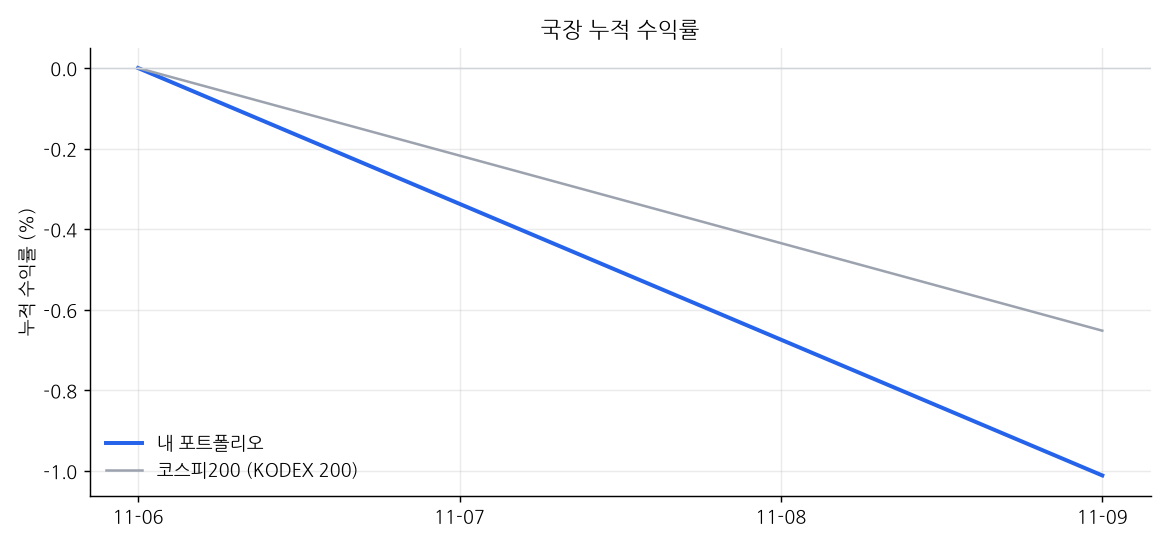
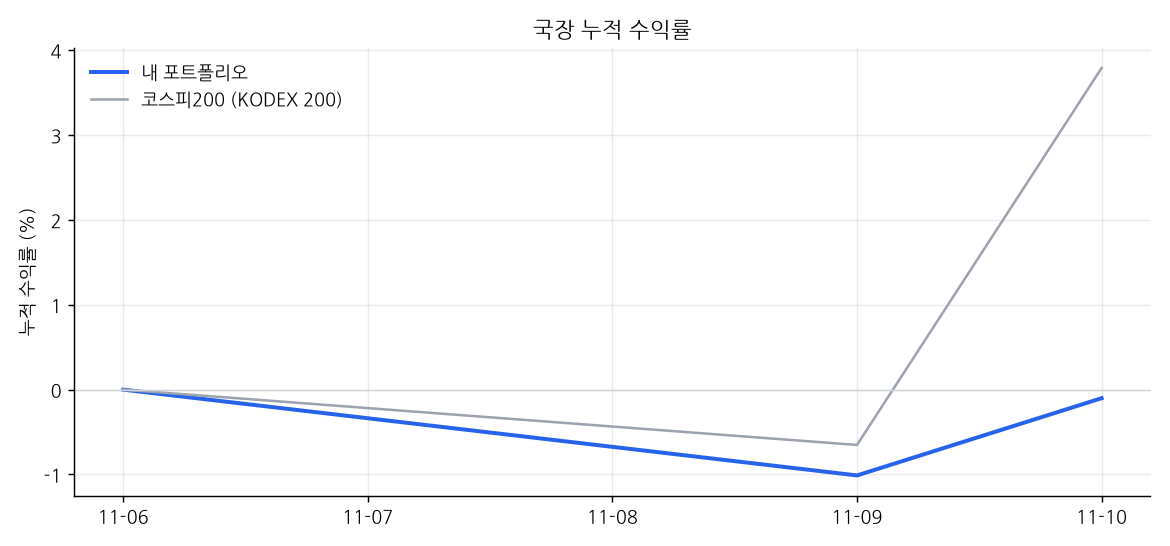
dashboard 2026-11-10 16:00

diff --git a/README.md b/README.md
@@ -1,11 +1,11 @@
 # 📈 내 자동매매 포트폴리오
 
-_마지막 갱신: 2026-11-10 07:30 (KST) · 라즈베리파이 자동 업데이트_
+_마지막 갱신: 2026-11-10 16:00 (KST) · 라즈베리파이 자동 업데이트_
 
 | 트랙 | 시작일 | 누적 수익률 | 비교 지수 | 초과 | 최근 1개월 | 국면 |
 |---|---|---|---|---|---|---|
 | 미장 | 2026-11-05 | **+4.15%** | +2.69% | +1.46% | - | BULL |
-| 국장 | 2026-11-06 | **-1.01%** | -0.65% | -0.36% | - | BEAR |
+| 국장 | 2026-11-06 | **-0.10%** | +3.79% | -3.89% | - | BEAR |
 
 ## 미장
 
@@ -13,16 +13,17 @@ _마지막 갱신: 2026-11-10 07:30 (KST) · 라즈베리파이 자동 업데이
 
 | 종목 | 비중 |
 |---|---|
-| AMD | 11.1% |
-| TSLA | 10.5% |
-| META | 10.1% |
-| AVGO | 10.1% |
-| AAPL | 10.1% |
-| AMZN | 10.0% |
-| LLY | 9.8% |
-| MSFT | 9.7% |
-| GOOGL | 9.7% |
-| NVDA | 9.0% |
+| AMD | 10.8% |
+| TSLA | 10.2% |
+| META | 9.9% |
+| AVGO | 9.9% |
+| AAPL | 9.8% |
+| AMZN | 9.8% |
+| LLY | 9.5% |
+| MSFT | 9.5% |
+| GOOGL | 9.5% |
+| NVDA | 8.8% |
+| 현금 | 2.3% |
 
 ![미장 비중](charts/us_weights.png)
 
@@ -32,16 +33,16 @@ _마지막 갱신: 2026-11-10 07:30 (KST) · 라즈베리파이 자동 업데이
 
 | 종목 | 비중 |
 |---|---|
-| KODEX 단기채권 | 50.2% |
-| 현금 | 14.6% |
+| KODEX 단기채권 | 49.7% |
+| 현금 | 14.4% |
+| 하나금융지주 | 5.0% |
 | 신한지주 | 5.0% |
-| 하나금융지주 | 4.9% |
-| 현대모비스 | 4.7% |
-| 셀트리온 | 4.7% |
-| SK스퀘어 | 4.4% |
-| 삼성물산 | 4.4% |
-| 삼성SDI | 4.2% |
-| 삼성바이오로직스 | 3.0% |
+| 현대모비스 | 4.9% |
+| 삼성SDI | 4.6% |
+| SK스퀘어 | 4.6% |
+| 셀트리온 | 4.5% |
+| 삼성물산 | 4.5% |
+| 삼성바이오로직스 | 2.9% |
 
 ![국장 비중](charts/kr_weights.png)
 
